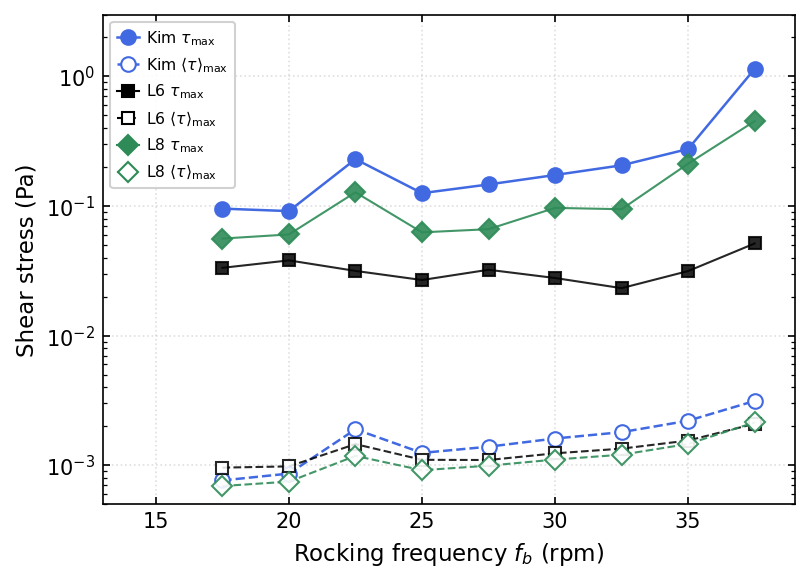
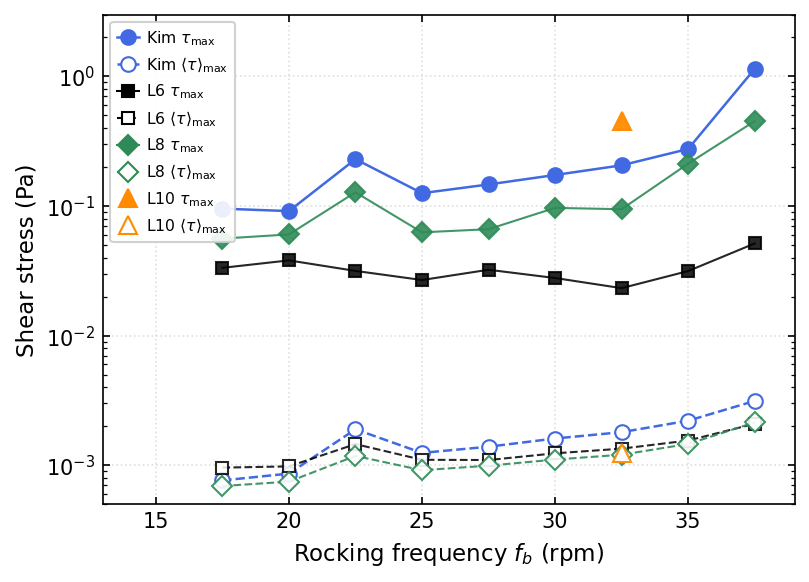
fix(slurm): hardcode PROJECT_ROOT in MPI template instead of fragile path derivation
Hit the same postprocessing-path bug twice this session (jobs 4645673 and
4631100): the simulation completed cleanly both times, but the template's
fallback PROJECT_ROOT="$(cd "$SCRATCH_RUN/../../.." && pwd)" silently
resolved to /oscar/scratch whenever _canonical_run_dir was absent from the
staged params.json (any submission bypassing scripts.simulate._prepare_run_dir,
e.g. a hand-rolled sbatch call or chain pipeline). Two hits means the
derivation itself is wrong, not the submissions -- hardcode the one fixed
repo path instead. Same fix applied to the self-submitting chain block's
TEMPLATE= derivation (same failure mode, not yet hit).

Also adds the recovered L10 baseline point (RPM=32.5) to Fig 13a.

Claude-Session: https://claude.ai/code/session_01YAKLKMs5oUYu8r6RenvudK

Changed region(s): [[0.1236, 0.3093, 0.309, 0.433], [0.7417, 0.7732, 0.8035, 0.8041], [0.7417, 0.1856, 0.7726, 0.2474]]

diff --git a/diary.md b/diary.md
@@ -8,6 +8,41 @@ why it was done, what it found, and what it does and doesn't prove.
 Convention: newest entries at the top. Link run_ids / job_ids / commit
 hashes exactly, not "the run from earlier."
 
+## 2026-08-05 — fixed the recurring `_canonical_run_dir`-missing postprocessing
+bug at its source, and recovered the L10 baseline point the same way as the
+A.16 L8 point.
+
+Job 4631100 (`l10_kim_seg2`, L10, theta=7deg, f_b=32.5rpm -- the chained
+"one L10 point" run from earlier this session) showed `FAILED` in `sacct`
+with the exact same signature as job 4645673 two days ago: simulation
+completed cleanly (352070 steps, t=20.65, checkpoint written), but
+`config/slurm_mpi_template.sh`'s postprocessing step failed with
+`can't open file '/oscar/scratch/scripts/postprocess.py'`. Same root cause:
+the run was submitted via a hand-rolled chain pipeline
+(`/oscar/scratch/eaguerov/tmp/l10_kim_seg2/run_pipeline.sh`) that also
+bypassed `scripts.simulate._prepare_run_dir`, so `_canonical_run_dir` was
+never stamped into the staged scratch params.json, and the template's
+fallback `PROJECT_ROOT="$(cd "$SCRATCH_RUN/../../.." && pwd)"` resolved to
+`/oscar/scratch` again. Recovered the same way as before: copied scratch
+output to `runs/l10_kim_seg2/` and ran `postprocess.main()` manually
+(`tau_100_max=0.449` Pa, `tau_mean_max=0.00125` Pa).
+
+Two hits on the same bug in one session means the derivation itself is
+wrong, not just unlucky submissions -- fixed at the source instead of
+patching a third ad hoc submission script. `config/slurm_mpi_template.sh`
+now hardcodes `PROJECT_ROOT` to this repo's one fixed OSCAR path instead of
+deriving it from `$CANON_RUN`/`$SCRATCH_RUN` path arithmetic (which only
+works when `_canonical_run_dir` happens to be present). Also fixed the
+analogous fragile `TEMPLATE=` derivation in the self-submitting chain block,
+which had the same failure mode but hadn't been hit yet.
+
+Added the recovered L10 point to Fig 13a (`docs/kimetal2024/figure_replicas/
+replicated_Fig13.png`): `tau_mean_max` lands right on the L6/L8/Kim mean
+trend, but `tau_max` overshoots Kim's curve (0.449 Pa vs ~0.2 Pa) rather
+than converging closer than L8 -- flagged, not yet explained; `tau_max` is
+a pointwise max over space and time and known to be more resolution-
+sensitive than the mean.
+
 ## 2026-08-04 — Fig. 13a/A.16/B.17 replica cleanup: recovered a "FAILED"
 L8 run via manual postprocessing, completed the L8 shear-stress sweep,
 fixed a real RMSE-definition bug in the B.17 kLa comparison, and
